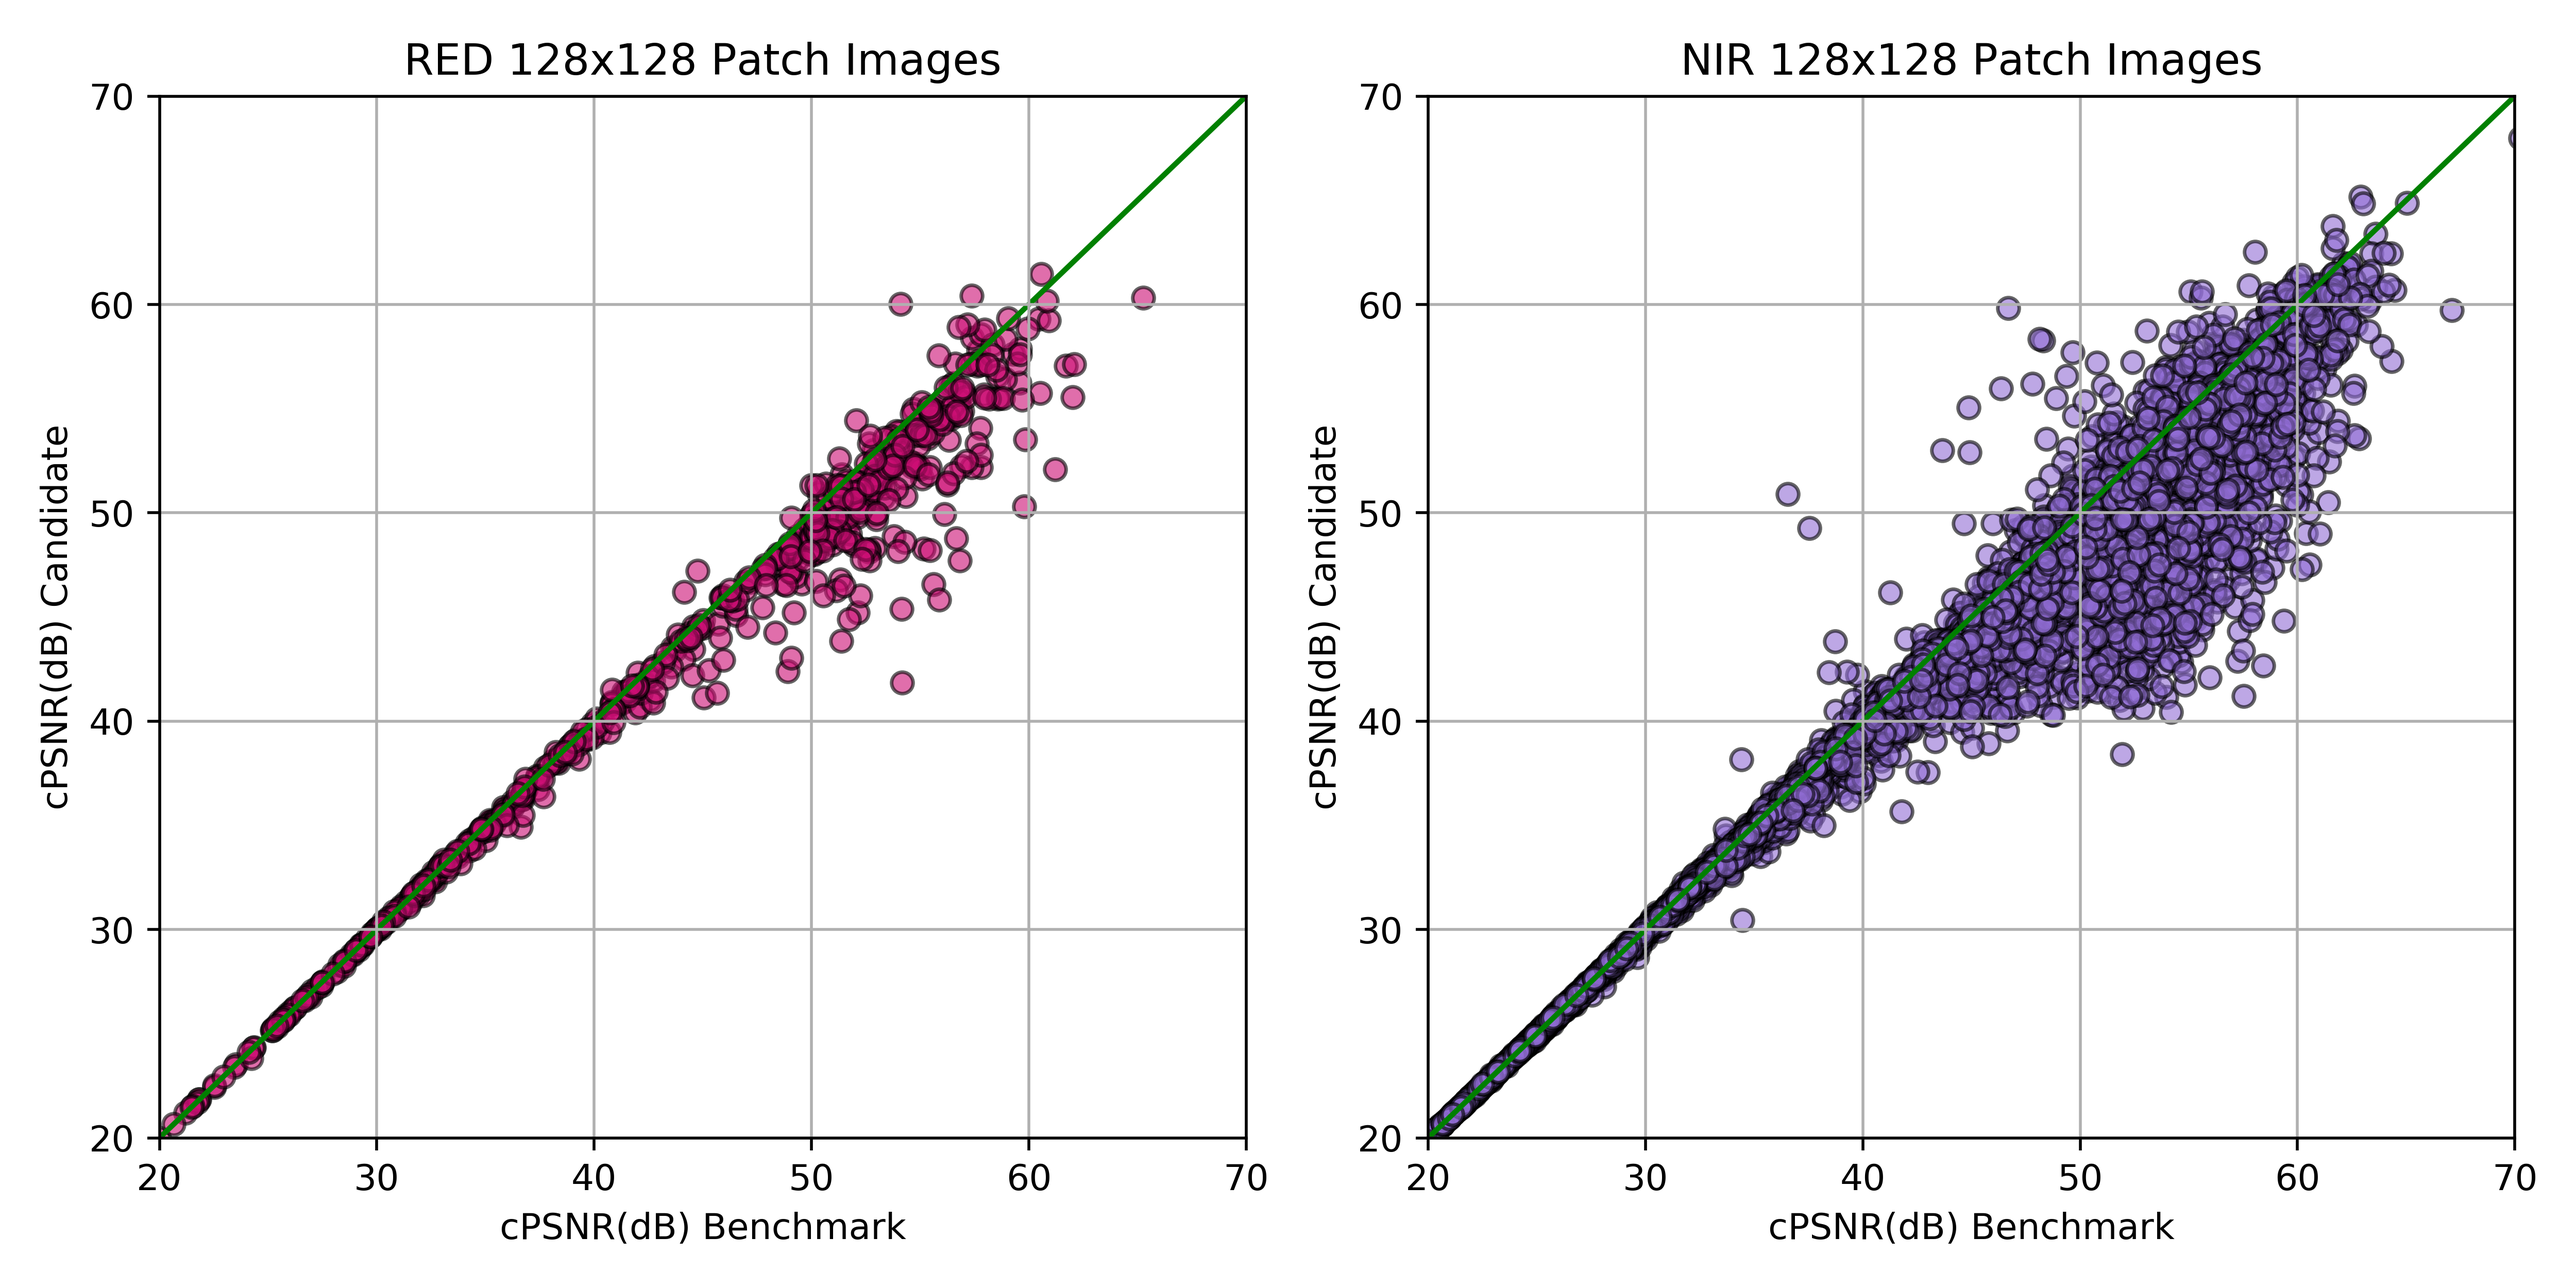
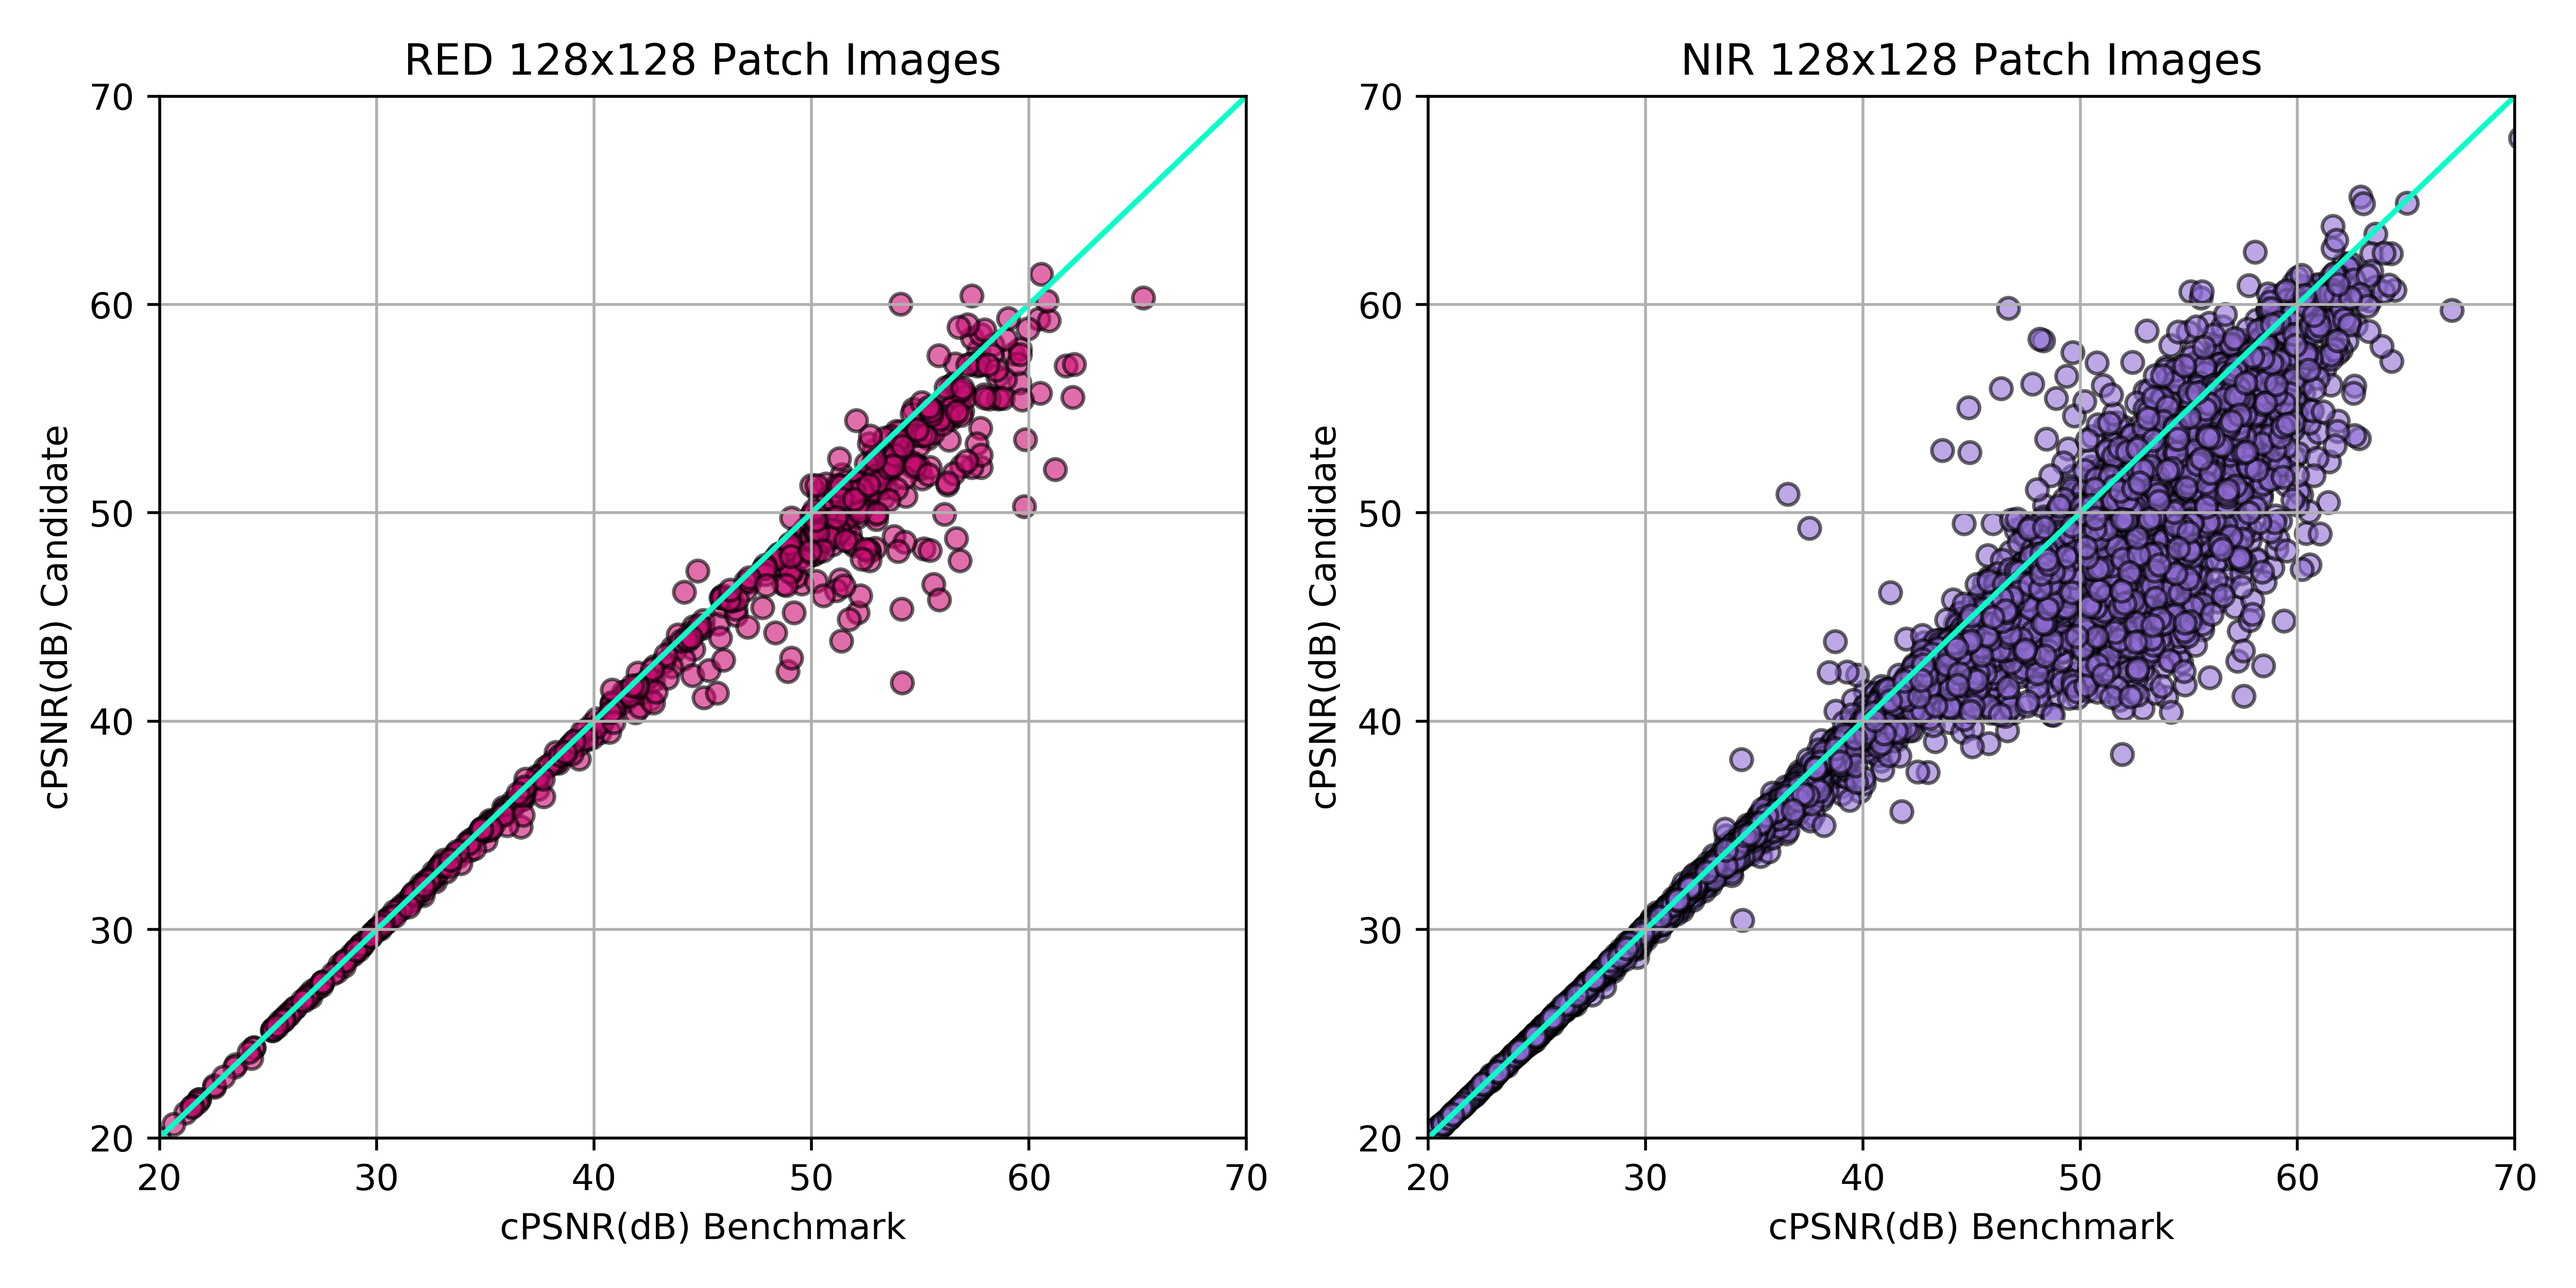
mother of graphs please help me

diff --git a/evaluate.py b/evaluate.py
@@ -40,12 +40,13 @@ def main(config, opt):
     currBest = currBest.transpose((0, 2, 3, 1))
     toCompare = toCompare.transpose((0, 2, 3, 1))
     allImgMsk = allImgMsk.transpose((0, 2, 3, 1))
-    currPSNR, compPSNR = calcRelativePSNR(currBest, toCompare, allImgMsk)
+    REDcurrPSNR, REDcompPSNR = calcRelativePSNR(currBest[:594], toCompare[:594], allImgMsk[:594])
+    NIRcurrPSNR, NIRcompPSNR = calcRelativePSNR(currBest[594:], toCompare[594:], allImgMsk[594:])
 
     fig, axs = plt.subplots(1, 2, figsize=(10, 5))
 
-    axs[0].scatter(currPSNR[:594], compPSNR[:594], edgecolors='k', alpha=0.6, color='#cc0e74', label='RED')
-    axs[1].scatter(currPSNR[594:], compPSNR[594:], edgecolors='k', alpha=0.6, color='#916dd5', label='NIR')
+    axs[0].scatter(REDcurrPSNR, REDcompPSNR, edgecolors='k', alpha=0.6, color='#cc0e74', label='RED')
+    axs[1].scatter(NIRcurrPSNR, NIRcompPSNR, edgecolors='k', alpha=0.6, color='#916dd5', label='NIR')
     axs[0].set_title(f'RED {patchSize}x{patchSize} Patch Images')
     axs[1].set_title(f'NIR {patchSize}x{patchSize} Patch Images')
     for ax in axs:
@@ -53,7 +54,7 @@ def main(config, opt):
 
         ax.set_xlim([20, 70])
         ax.set_ylim([20, 70])
-        ax.plot([20, 70], [20, 70], 'green', zorder=1)
+        ax.plot([20, 70], [20, 70], '#08ffc8', zorder=1)
         ax.set_xlabel('cPSNR(dB) Benchmark')
         ax.set_ylabel('cPSNR(dB) Candidate')
     fig.show()
